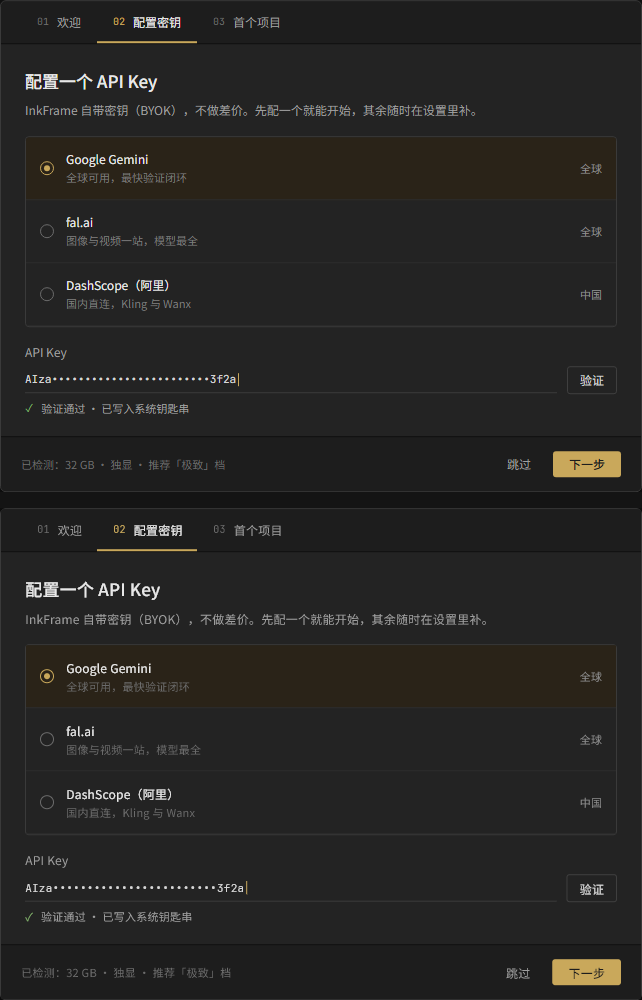
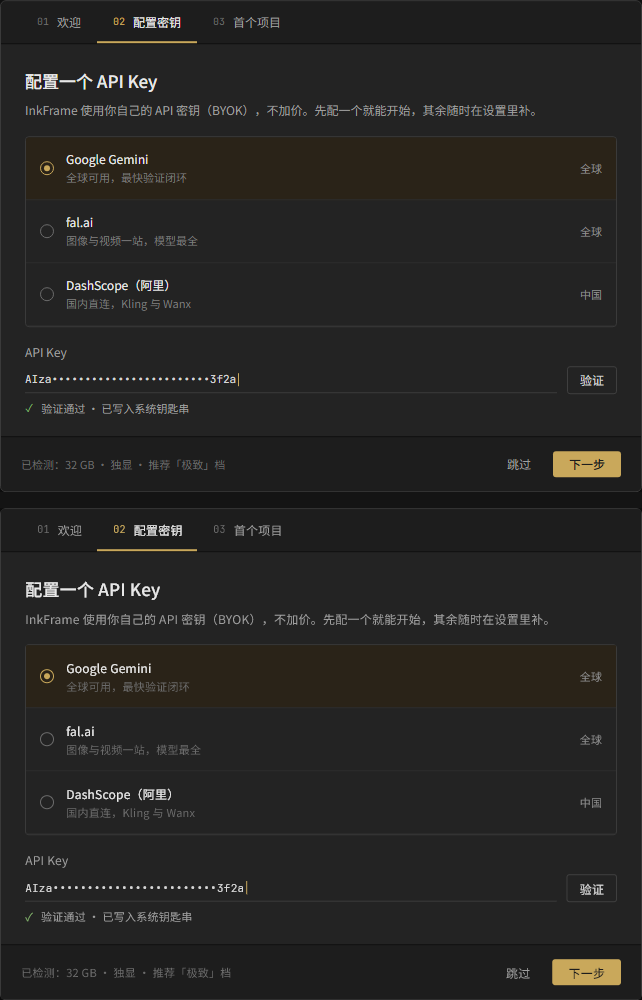
docs(replica): 首启向导按 2026-10-08 新稿重新比对——4.31%，非文字区全 0
基准图从新稿重渲染。块框仍是 (121, 3400) 642×492：那句 BYOK 文案自然宽
457.8 → 517.6px，在 592 的正文区里**仍是单行**，卡片高 491.594 一点没变
（把文案换回旧句再量一次，还是同一个高——文案变长对卡高零影响）。

| 区域 | 差异 |
|---|---|
| 步骤条右侧空白 / 当前步琥珀条 / 正文左右留白 / 说明↔分组框空隙 / Key 输入底线 | **0%** |
| 三个单选圈 | 0.68%（14px 圆的抗锯齿） |
| 底部条中段 | 0.15%（文字渗入） |
| 整块 642×492 | **4.31%**（旧稿那版 4.16%，升幅就是那句话变长多出来的墨迹） |

±1px 四向平移全部更差（4.53 / 4.98 / 4.98 / 5.37%），当前对齐即最优。

按 PLAN 的新口径（非文字区 ≤ 2.5% + 附 ±1px 平移）两项都满足。

diff --git a/docs/design/handoff-2026-09/README.md b/docs/design/handoff-2026-09/README.md
@@ -557,7 +557,7 @@ powershell -File scripts/replica_crop.ps1 -In ref_tall.png -Out ref.png -X 48 -Y
 | 泳道 03 编辑框（静态复刻，Lanes 稿 456 宽） | 2.08%（字形抗锯齿，正文提示词一行占大头） | 用户验收通过（2026-09-29，P1，三块一起）。屏在 (832,932)，高 474 与稿逐像素同高。名称 / 风格提示词 / 底色（自动 + 5 色 + 推断说明）/ 预览 / 底部条 |
 | 序列视图（接线后，序列标签 1600×1000 与 960×600，稿数据播种：`seedSequenceFixture` 在「画布 03 · 备选结尾」铺 8 镜链 + 3 未入链） | 上半（剔除交付列）4.66% + 序列区 5.39% = 合计 4.94%（静态 2.67%） | 升幅全在「无字段 / 播种数据」两类：监视器画面是播种的渐变图（稿是视频帧，夹具无视频文件），播放头停在首镜 0 帧（稿在 27% / 选中 003），无裁切态、无 A1 轨、标记轨只有场次（稿另有断点 / 待补两类，无模型）；场次标记按「链上每个 shot 节点一个」推导（8 个，稿 3 个，无场次模型）；面包屑是画布 03（链铺在空画布上——序列只认链上的镜，「未入链 · 3」与序列不重叠）；片段缩略三格同图；状态栏只有第一段。960×600 三栏仍全在（监视器 ~318 宽）|
 | 镜头语言（P3 接线后，画布标签 1600×1000，选中「镜头 03 · 图转视频」） | 不比对（P3 没有稿；验收看检查器截图一张，`shot_language_wired_1600x1000.png`） | 检查器「镜头运动」五行：运镜 推镜 / 景别 中景 MS / 机位角度 平视 Eye Level / 运镜幅度 0.35 / 焦段 35mm（夹具取稿原文）；提示词条摘要多「中景 MS · 35mm」两段；运镜下拉不再按 provider 能力位隐藏（此前所有 provider 都没声明 supportedCameras，下拉从未出现过）；画布 golden 随之重铸 |
-| 首启向导（静态复刻，Screens 稿第 4 屏左，642×492） | **4.16%**；**非文字区域全部 0%** | 待用户验收（2026-10-01，P5）。几何逐像素对齐：卡片 642×492、步骤条 43、当前步 2px 琥珀条 x 97..196、Provider 分组框 592×191（三行 63）、Key 输入底线 532、底部条 55，横线位置与稿逐行相同。±1px 四向平移测试全部更差（4.40 / 4.83 / 4.82 / 5.22%），当前对齐即最优。分区量：步骤条右侧空白 / 琥珀条 / 正文左右留白 / 两处竖向空隙 / 输入底线 **均 0%**，单选圈 0.68%（14px 圆的抗锯齿），底部条中段 0.15%（文字渗入）。余量按带分布全部落在文字行上：说明句 3448、底部条 1276、Provider 行 966/903/634、成功行 825、步骤条 618、标题 565。两处按稿的光栅照抄：①卡片在稿页面上的 y 是 3400.203，基准图从整数行裁，故复刻整体下移 0.203px——不这么做琥珀下划线的两条软边会整条判为差异（33.3% → 0%）；②页签宽按稿的 76/100/100 钉死并允许内容溢出到内边距——回落中文字体每个页签比稿宽 1px，不钉死下划线起点就错 1px |
+| 首启向导（静态复刻，Screens 稿第 4 屏左，642×492） | **4.31%**；**非文字区域全部 0%** | ✅ 通过（2026-10-08，按 PLAN 新口径：非文字区 ≤ 2.5% + 附 ±1px 平移）。基准图已按 2026-10-08 新稿重渲染——那句 BYOK 文案改成「InkFrame 使用你自己的 API 密钥（BYOK），不加价。…」，自然宽 457.8 → 517.6px，在 592 的正文区里**仍是单行**，卡片高 491.594 不变（换回旧句再量一次也是同一个高）。分区量：步骤条右侧空白 / 当前步 2px 琥珀条 / 正文左右留白 / 说明↔分组框空隙 / Key 输入底线 **均 0%**，单选圈 0.68%（14px 圆的抗锯齿），底部条中段 0.15%（文字渗入）。±1px 四向平移全部更差（4.53 / 4.98 / 4.98 / 5.37%），当前对齐即最优。两处照抄稿的光栅：①整体下移 0.203px——卡在稿页面上的 y 是 3400.203，基准图从整数行 3400 起裁，不这么做琥珀下划线的两条软边会整条判为差异（33.3% → **0%**）；②页签宽按稿 76/100/100 钉死并让内容溢出到 16px 内边距（回落中文字体每个页签比稿宽 1px，硬塞会撞 RenderFlex 溢出） |
 | 批量结果（接线后，画布标签 1600×1000 与 960×600，稿数据播种：`seedBatchFixture` 在画布 02 放一个 image config + 批量 result 容器 + 四态 slot，选中容器） | 01 检查器内联块（302×408，与稿同坐标裁）**8.92%**（静态 4.08%）。02/03c 是浮层与对话框，夹具不开，只给整屏图 | 升幅全在「无字段 / 真实数据长度」两类，几何逐行对齐（见 `batch_wired_01_compare.png`：标签条 / 节点头 / 「批量结果」行 / 两行格 / 按钮 / 脚注的 y 全部一致）。四条：①节点头稿写「镜头 05 · 松林 / image / result · flux-pro-1.1」，应用写「图片 / image / result」——批量的 result 节点**没有标签**（生产就是空串）、身上也**没有 provider_id**；②失败格稿写「内容被拦截」一行，应用写真实本地化文案「提示词未通过服务商内容审核…」两行（真实数据长度）；③稿的「全部派生节点」按钮**不做**，所以只剩「重跑失败 slot」独占一行；④标签条右端多一个 ≡（真实面板的菜单字形，稿的独立卡没画）。角色库块不做像素比对：稿的 03b 是 262 宽独立卡，真实左栏是 241（240 + 1px 右沿），宽度对不上，比了没有意义 |
 | 泳道（接线后，画布标签 1600×1000 与 960×600，稿数据播种 + 夹具泳道带 stylePrompt） | 与 Workspace v2 稿比 7.16%（S2b 时 5.45%；升幅是泳道画法整个换了：稿上是 11px 灰字，已作废） | 预期内偏离（P1）：稿的两行 line-height 1.2 在 26 栏里溢出 1.4px 是稿的问题，接线与静态复刻都改 1.15（用户拍板）；折叠道 36 轨里标题栏垂直居中（稿上 top 12 会压到下一道）；「继承」行对所有卡片预留 19px（卡片 172 → 191，无道节点留空），画布 golden 与 node_card golden 因此重铸；夹具节点贴道顶放置时会被 +14 的标题栏压住（数据位置，非布局）。960×600 只看得见第一条道与提示词条 |
 | 设置浮层（静态复刻，Screens 稿第 3 屏） | 1.45%（字形抗锯齿 + 滑杆 1px 相位 + 分组框底沿 1px） | 用户验收通过（2026-09-24，1.44% 时验收；稿把 #B04030 同步成 #D25A4A 后重比 1.45%）。屏在 Screens 整页截图 (48,2252)。#1F1F1F 底（左导航 / 分组框）就近取 surface2；内容列按稿 overflow: auto 放进滚动视图 |
